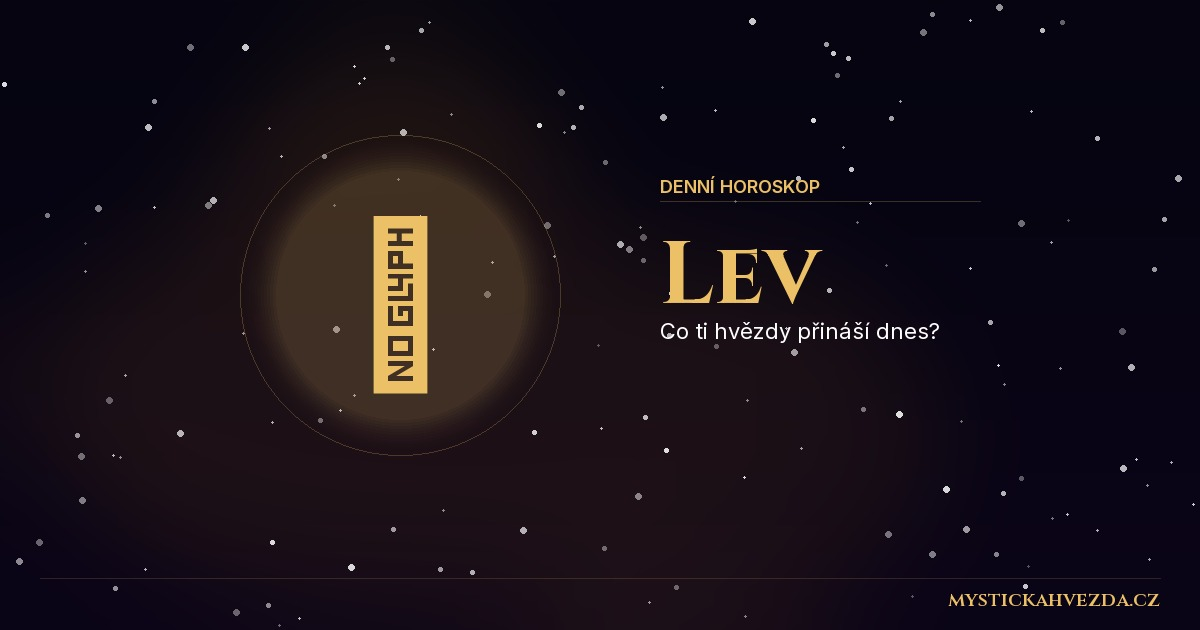
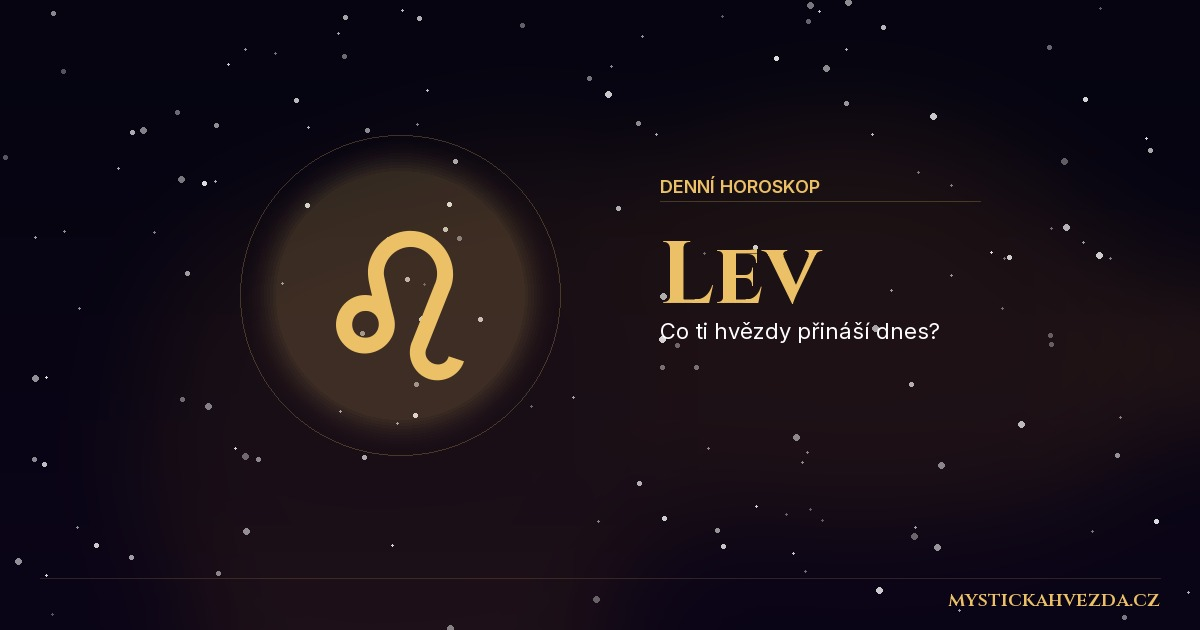
fix: zodiac symboly v OG kartách — Segoe UI Symbol místo Inter
Inter Bold nemá Unicode zodiac glyphs (♈♉…), karty zobrazovaly
"NO GLYPH". Přepnuto na seguisym.ttf (Segoe UI Symbol).

Changed region(s): [[0.2775, 0.3317, 0.4008, 0.6333], [0.37, 0.9952, 0.4008, 1.0], [0.1542, 0.3016, 0.185, 0.3317]]

diff --git a/scripts/generate_og_horoscope_cards.py b/scripts/generate_og_horoscope_cards.py
@@ -127,10 +127,11 @@ def generate_card(slug, sign_name, symbol, sign_color):
 
     draw_gold_circle(draw, symbol_cx, symbol_cy, 160)
 
+    # Segoe UI Symbol má zodiac glyphs (Inter nemá)
     try:
-        sym_font = ImageFont.truetype(str(INTER_BOLD), 160)
+        sym_font = ImageFont.truetype('C:/Windows/Fonts/seguisym.ttf', 160)
     except:
-        sym_font = ImageFont.load_default()
+        sym_font = ImageFont.truetype(str(INTER_BOLD), 160)
 
     # Symbol — vycentrovat na kruh
     sb = sym_font.getbbox(symbol)
